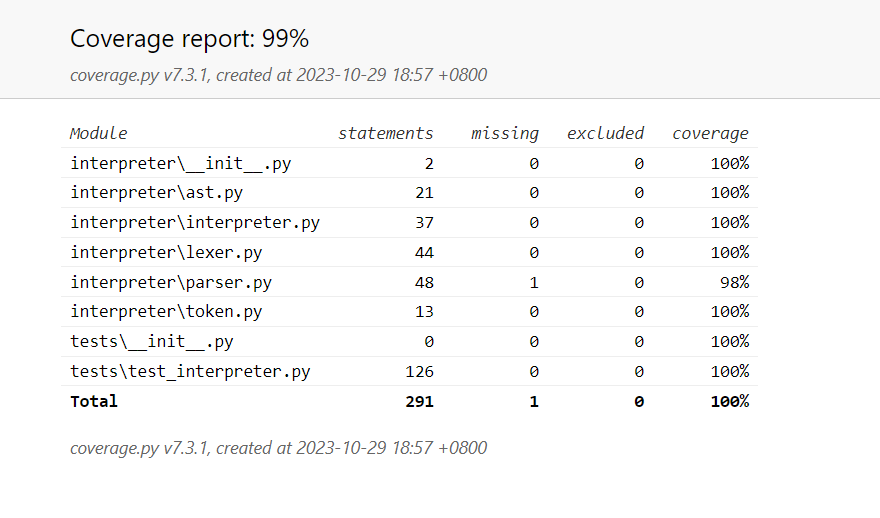
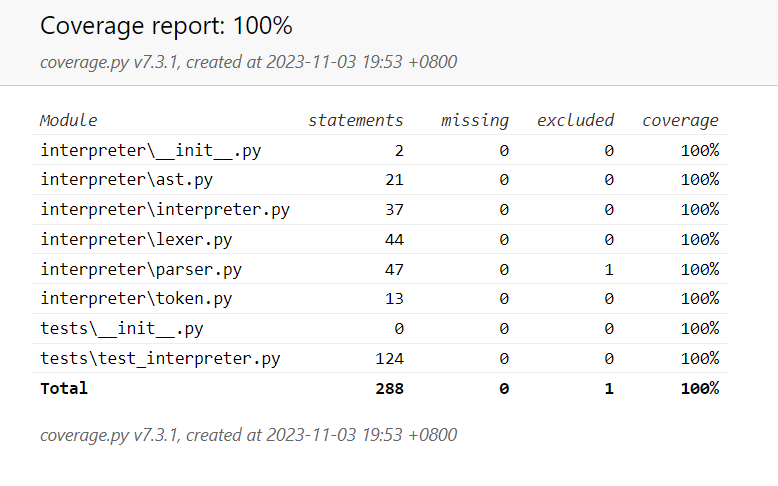
fix tests

diff --git a/pyinterpreter/htmlcov/d_53be9898ecdd4114_parser_py.html b/pyinterpreter/htmlcov/d_53be9898ecdd4114_parser_py.html
@@ -2,7 +2,7 @@
 <html>
 <head>
     <meta http-equiv="Content-Type" content="text/html; charset=utf-8">
-    <title>Coverage for interpreter\parser.py: 98%</title>
+    <title>Coverage for interpreter\parser.py: 100%</title>
     <link rel="icon" sizes="32x32" href="favicon_32.png">
     <link rel="stylesheet" href="style.css" type="text/css">
     <script type="text/javascript" src="coverage_html.js" defer></script>
@@ -12,7 +12,7 @@
     <div class="content">
         <h1>
             <span class="text">Coverage for </span><b>interpreter\parser.py</b>:
-            <span class="pc_cov">98%</span>
+            <span class="pc_cov">100%</span>
         </h1>
         <aside id="help_panel_wrapper">
             <input id="help_panel_state" type="checkbox">
@@ -54,10 +54,10 @@
             </div>
         </aside>
         <h2>
-            <span class="text">48 statements &nbsp;</span>
+            <span class="text">47 statements &nbsp;</span>
             <button type="button" class="run button_toggle_run" value="run" data-shortcut="r" title="Toggle lines run">47<span class="text"> run</span></button>
-            <button type="button" class="mis show_mis button_toggle_mis" value="mis" data-shortcut="m" title="Toggle lines missing">1<span class="text"> missing</span></button>
-            <button type="button" class="exc show_exc button_toggle_exc" value="exc" data-shortcut="x" title="Toggle lines excluded">0<span class="text"> excluded</span></button>
+            <button type="button" class="mis show_mis button_toggle_mis" value="mis" data-shortcut="m" title="Toggle lines missing">0<span class="text"> missing</span></button>
+            <button type="button" class="exc show_exc button_toggle_exc" value="exc" data-shortcut="x" title="Toggle lines excluded">1<span class="text"> excluded</span></button>
         </h2>
         <p class="text">
             <a id="prevFileLink" class="nav" href="d_53be9898ecdd4114_lexer_py.html">&#xab; prev</a> &nbsp; &nbsp;
@@ -65,7 +65,7 @@
             <a id="nextFileLink" class="nav" href="d_53be9898ecdd4114_token_py.html">&#xbb; next</a>
             &nbsp; &nbsp; &nbsp;
             <a class="nav" href="https://coverage.readthedocs.io/en/7.3.1">coverage.py v7.3.1</a>,
-            created at 2023-10-29 18:57 +0800
+            created at 2023-11-03 19:45 +0800
         </p>
         <aside class="hidden">
             <button type="button" class="button_next_chunk" data-shortcut="j"/>
@@ -110,7 +110,7 @@
     <p class="run"><span class="n"><a id="t28" href="#t28">28</a></span><span class="t">            <span class="nam">result</span> <span class="op">=</span> <span class="nam">self</span><span class="op">.</span><span class="nam">expr</span><span class="op">(</span><span class="op">)</span>&nbsp;</span><span class="r"></span></p>
     <p class="run"><span class="n"><a id="t29" href="#t29">29</a></span><span class="t">            <span class="nam">self</span><span class="op">.</span><span class="nam">check_token</span><span class="op">(</span><span class="nam">TokenType</span><span class="op">.</span><span class="nam">RPAREN</span><span class="op">)</span>&nbsp;</span><span class="r"></span></p>
     <p class="run"><span class="n"><a id="t30" href="#t30">30</a></span><span class="t">            <span class="key">return</span> <span class="nam">result</span>&nbsp;</span><span class="r"></span></p>
-    <p class="mis show_mis"><span class="n"><a id="t31" href="#t31">31</a></span><span class="t">        <span class="key">raise</span> <span class="nam">SyntaxError</span><span class="op">(</span><span class="str">"Invalid factor"</span><span class="op">)</span>&nbsp;</span><span class="r"></span></p>
+    <p class="run"><span class="n"><a id="t31" href="#t31">31</a></span><span class="t">        <span class="key">raise</span> <span class="nam">SyntaxError</span><span class="op">(</span><span class="str">"Invalid factor"</span><span class="op">)</span>&nbsp;</span><span class="r"></span></p>
     <p class="pln"><span class="n"><a id="t32" href="#t32">32</a></span><span class="t">&nbsp;</span><span class="r"></span></p>
     <p class="run"><span class="n"><a id="t33" href="#t33">33</a></span><span class="t">    <span class="key">def</span> <span class="nam">term</span><span class="op">(</span><span class="nam">self</span><span class="op">)</span><span class="op">:</span>&nbsp;</span><span class="r"></span></p>
     <p class="run"><span class="n"><a id="t34" href="#t34">34</a></span><span class="t">        <span class="nam">result</span> <span class="op">=</span> <span class="nam">self</span><span class="op">.</span><span class="nam">factor</span><span class="op">(</span><span class="op">)</span>&nbsp;</span><span class="r"></span></p>
@@ -126,7 +126,7 @@
     <p class="run"><span class="n"><a id="t44" href="#t44">44</a></span><span class="t">        <span class="nam">result</span> <span class="op">=</span> <span class="nam">self</span><span class="op">.</span><span class="nam">term</span><span class="op">(</span><span class="op">)</span>&nbsp;</span><span class="r"></span></p>
     <p class="run"><span class="n"><a id="t45" href="#t45">45</a></span><span class="t">        <span class="key">while</span> <span class="nam">self</span><span class="op">.</span><span class="nam">_current_token</span> <span class="key">and</span> <span class="op">(</span><span class="nam">self</span><span class="op">.</span><span class="nam">_current_token</span><span class="op">.</span><span class="nam">type_</span> <span class="op">==</span> <span class="nam">TokenType</span><span class="op">.</span><span class="nam">OPERATOR</span><span class="op">)</span><span class="op">:</span>&nbsp;</span><span class="r"></span></p>
     <p class="run"><span class="n"><a id="t46" href="#t46">46</a></span><span class="t">            <span class="key">if</span> <span class="nam">self</span><span class="op">.</span><span class="nam">_current_token</span><span class="op">.</span><span class="nam">value</span> <span class="key">not</span> <span class="key">in</span> <span class="op">[</span><span class="str">"+"</span><span class="op">,</span> <span class="str">"-"</span><span class="op">]</span><span class="op">:</span>&nbsp;</span><span class="r"></span></p>
-    <p class="run"><span class="n"><a id="t47" href="#t47">47</a></span><span class="t">                <span class="key">break</span>&nbsp;</span><span class="r"></span></p>
+    <p class="exc show_exc"><span class="n"><a id="t47" href="#t47">47</a></span><span class="t">                <span class="key">break</span>  <span class="com"># pragma: no cover</span>&nbsp;</span><span class="r"></span></p>
     <p class="run"><span class="n"><a id="t48" href="#t48">48</a></span><span class="t">            <span class="nam">token</span> <span class="op">=</span> <span class="nam">self</span><span class="op">.</span><span class="nam">_current_token</span>&nbsp;</span><span class="r"></span></p>
     <p class="run"><span class="n"><a id="t49" href="#t49">49</a></span><span class="t">            <span class="nam">self</span><span class="op">.</span><span class="nam">check_token</span><span class="op">(</span><span class="nam">TokenType</span><span class="op">.</span><span class="nam">OPERATOR</span><span class="op">)</span>&nbsp;</span><span class="r"></span></p>
     <p class="run"><span class="n"><a id="t50" href="#t50">50</a></span><span class="t">            <span class="nam">result</span> <span class="op">=</span> <span class="nam">BinOp</span><span class="op">(</span><span class="nam">result</span><span class="op">,</span> <span class="nam">token</span><span class="op">,</span> <span class="nam">self</span><span class="op">.</span><span class="nam">term</span><span class="op">(</span><span class="op">)</span><span class="op">)</span>&nbsp;</span><span class="r"></span></p>
@@ -145,7 +145,7 @@
             <a id="nextFileLink" class="nav" href="d_53be9898ecdd4114_token_py.html">&#xbb; next</a>
             &nbsp; &nbsp; &nbsp;
             <a class="nav" href="https://coverage.readthedocs.io/en/7.3.1">coverage.py v7.3.1</a>,
-            created at 2023-10-29 18:57 +0800
+            created at 2023-11-03 19:45 +0800
         </p>
     </div>
 </footer>

diff --git a/pyinterpreter/htmlcov/d_a44f0ac069e85531_test_interpreter_py.html b/pyinterpreter/htmlcov/d_a44f0ac069e85531_test_interpreter_py.html
@@ -54,8 +54,8 @@
             </div>
         </aside>
         <h2>
-            <span class="text">126 statements &nbsp;</span>
-            <button type="button" class="run button_toggle_run" value="run" data-shortcut="r" title="Toggle lines run">126<span class="text"> run</span></button>
+            <span class="text">124 statements &nbsp;</span>
+            <button type="button" class="run button_toggle_run" value="run" data-shortcut="r" title="Toggle lines run">124<span class="text"> run</span></button>
             <button type="button" class="mis show_mis button_toggle_mis" value="mis" data-shortcut="m" title="Toggle lines missing">0<span class="text"> missing</span></button>
             <button type="button" class="exc show_exc button_toggle_exc" value="exc" data-shortcut="x" title="Toggle lines excluded">0<span class="text"> excluded</span></button>
         </h2>
@@ -65,7 +65,7 @@
             <a id="nextFileLink" class="nav" href="index.html">&#xbb; next</a>
             &nbsp; &nbsp; &nbsp;
             <a class="nav" href="https://coverage.readthedocs.io/en/7.3.1">coverage.py v7.3.1</a>,
-            created at 2023-10-29 18:57 +0800
+            created at 2023-11-03 19:53 +0800
         </p>
         <aside class="hidden">
             <button type="button" class="button_next_chunk" data-shortcut="j"/>
@@ -250,14 +250,11 @@
     <p class="pln"><span class="n"><a id="t168" href="#t168">168</a></span><span class="t">            <span class="nam">result</span><span class="op">)</span> <span class="op">==</span> <span class="str">"BinOp+ (Number (Token(TokenType.NUMBER, 2)), BinOp* (Number (Token(TokenType.NUMBER, 3)), Number (Token(TokenType.NUMBER, 4))))"</span>&nbsp;</span><span class="r"></span></p>
     <p class="pln"><span class="n"><a id="t169" href="#t169">169</a></span><span class="t">&nbsp;</span><span class="r"></span></p>
     <p class="run"><span class="n"><a id="t170" href="#t170">170</a></span><span class="t">    <span class="key">def</span> <span class="nam">test_invalid_operator_factor</span><span class="op">(</span><span class="nam">self</span><span class="op">,</span> <span class="nam">parser</span><span class="op">)</span><span class="op">:</span>&nbsp;</span><span class="r"></span></p>
-    <p class="run"><span class="n"><a id="t171" href="#t171">171</a></span><span class="t">        <span class="nam">code</span> <span class="op">=</span> <span class="str">"2 * + 3 * 4"</span>&nbsp;</span><span class="r"></span></p>
-    <p class="run"><span class="n"><a id="t172" href="#t172">172</a></span><span class="t">        <span class="key">with</span> <span class="nam">pytest</span><span class="op">.</span><span class="nam">raises</span><span class="op">(</span><span class="nam">SyntaxError</span><span class="op">,</span> <span class="nam">match</span><span class="op">=</span><span class="str">"Invalid factor"</span><span class="op">)</span><span class="op">:</span>&nbsp;</span><span class="r"></span></p>
-    <p class="run"><span class="n"><a id="t173" href="#t173">173</a></span><span class="t">            <span class="nam">parser</span><span class="op">.</span><span class="nam">parse</span><span class="op">(</span><span class="nam">code</span><span class="op">)</span>&nbsp;</span><span class="r"></span></p>
-    <p class="pln"><span class="n"><a id="t174" href="#t174">174</a></span><span class="t">&nbsp;</span><span class="r"></span></p>
-    <p class="run"><span class="n"><a id="t175" href="#t175">175</a></span><span class="t">    <span class="key">def</span> <span class="nam">test_missing_closing_parentheses_factor</span><span class="op">(</span><span class="nam">self</span><span class="op">,</span> <span class="nam">parser</span><span class="op">)</span><span class="op">:</span>&nbsp;</span><span class="r"></span></p>
-    <p class="run"><span class="n"><a id="t176" href="#t176">176</a></span><span class="t">        <span class="nam">code</span> <span class="op">=</span> <span class="str">"2 * (3 + 4"</span>&nbsp;</span><span class="r"></span></p>
-    <p class="run"><span class="n"><a id="t177" href="#t177">177</a></span><span class="t">        <span class="key">with</span> <span class="nam">pytest</span><span class="op">.</span><span class="nam">raises</span><span class="op">(</span><span class="nam">SyntaxError</span><span class="op">,</span> <span class="nam">match</span><span class="op">=</span><span class="str">"Invalid factor"</span><span class="op">)</span><span class="op">:</span>&nbsp;</span><span class="r"></span></p>
-    <p class="run"><span class="n"><a id="t178" href="#t178">178</a></span><span class="t">            <span class="nam">parser</span><span class="op">.</span><span class="nam">parse</span><span class="op">(</span><span class="nam">code</span><span class="op">)</span>&nbsp;</span><span class="r"></span></p>
+    <p class="run"><span class="n"><a id="t171" href="#t171">171</a></span><span class="t">        <span class="nam">token</span> <span class="op">=</span> <span class="nam">Token</span><span class="op">(</span><span class="nam">TokenType</span><span class="op">.</span><span class="nam">OPERATOR</span><span class="op">,</span> <span class="str">"abc"</span><span class="op">)</span>&nbsp;</span><span class="r"></span></p>
+    <p class="run"><span class="n"><a id="t172" href="#t172">172</a></span><span class="t">        <span class="nam">parser</span> <span class="op">=</span> <span class="nam">Parser</span><span class="op">(</span><span class="op">)</span>&nbsp;</span><span class="r"></span></p>
+    <p class="run"><span class="n"><a id="t173" href="#t173">173</a></span><span class="t">        <span class="nam">parser</span><span class="op">.</span><span class="nam">_current_token</span> <span class="op">=</span> <span class="nam">token</span>&nbsp;</span><span class="r"></span></p>
+    <p class="run"><span class="n"><a id="t174" href="#t174">174</a></span><span class="t">        <span class="key">with</span> <span class="nam">pytest</span><span class="op">.</span><span class="nam">raises</span><span class="op">(</span><span class="nam">SyntaxError</span><span class="op">)</span><span class="op">:</span>&nbsp;</span><span class="r"></span></p>
+    <p class="run"><span class="n"><a id="t175" href="#t175">175</a></span><span class="t">            <span class="nam">parser</span><span class="op">.</span><span class="nam">factor</span><span class="op">(</span><span class="op">)</span>&nbsp;</span><span class="r"></span></p>
 </main>
 <footer>
     <div class="content">
@@ -267,7 +264,7 @@
             <a id="nextFileLink" class="nav" href="index.html">&#xbb; next</a>
             &nbsp; &nbsp; &nbsp;
             <a class="nav" href="https://coverage.readthedocs.io/en/7.3.1">coverage.py v7.3.1</a>,
-            created at 2023-10-29 18:57 +0800
+            created at 2023-11-03 19:53 +0800
         </p>
     </div>
 </footer>

diff --git a/pyinterpreter/htmlcov/index.html b/pyinterpreter/htmlcov/index.html
@@ -11,7 +11,7 @@
 <header>
     <div class="content">
         <h1>Coverage report:
-            <span class="pc_cov">99%</span>
+            <span class="pc_cov">100%</span>
         </h1>
         <aside id="help_panel_wrapper">
             <input id="help_panel_state" type="checkbox">
@@ -45,7 +45,7 @@
         </form>
         <p class="text">
             <a class="nav" href="https://coverage.readthedocs.io/en/7.3.1">coverage.py v7.3.1</a>,
-            created at 2023-10-29 18:57 +0800
+            created at 2023-11-03 19:53 +0800
         </p>
     </div>
 </header>
@@ -91,10 +91,10 @@
             </tr>
             <tr class="file">
                 <td class="name left"><a href="d_53be9898ecdd4114_parser_py.html">interpreter\parser.py</a></td>
-                <td>48</td>
-                <td>1</td>
+                <td>47</td>
                 <td>0</td>
-                <td class="right" data-ratio="47 48">98%</td>
+                <td>1</td>
+                <td class="right" data-ratio="47 47">100%</td>
             </tr>
             <tr class="file">
                 <td class="name left"><a href="d_53be9898ecdd4114_token_py.html">interpreter\token.py</a></td>
@@ -112,19 +112,19 @@
             </tr>
             <tr class="file">
                 <td class="name left"><a href="d_a44f0ac069e85531_test_interpreter_py.html">tests\test_interpreter.py</a></td>
-                <td>126</td>
+                <td>124</td>
                 <td>0</td>
                 <td>0</td>
-                <td class="right" data-ratio="126 126">100%</td>
+                <td class="right" data-ratio="124 124">100%</td>
             </tr>
         </tbody>
         <tfoot>
             <tr class="total">
                 <td class="name left">Total</td>
-                <td>291</td>
-                <td>1</td>
+                <td>288</td>
                 <td>0</td>
-                <td class="right" data-ratio="290 291">99%</td>
+                <td>1</td>
+                <td class="right" data-ratio="288 288">100%</td>
             </tr>
         </tfoot>
     </table>
@@ -136,7 +136,7 @@
     <div class="content">
         <p>
             <a class="nav" href="https://coverage.readthedocs.io/en/7.3.1">coverage.py v7.3.1</a>,
-            created at 2023-10-29 18:57 +0800
+            created at 2023-11-03 19:53 +0800
         </p>
     </div>
     <aside class="hidden">

diff --git a/pyinterpreter/tests/test_interpreter.py b/pyinterpreter/tests/test_interpreter.py
@@ -168,11 +168,8 @@ class TestParser:
             result) == "BinOp+ (Number (Token(TokenType.NUMBER, 2)), BinOp* (Number (Token(TokenType.NUMBER, 3)), Number (Token(TokenType.NUMBER, 4))))"
 
     def test_invalid_operator_factor(self, parser):
-        code = "2 * + 3 * 4"
-        with pytest.raises(SyntaxError, match="Invalid factor"):
-            parser.parse(code)
-
-    def test_missing_closing_parentheses_factor(self, parser):
-        code = "2 * (3 + 4"
-        with pytest.raises(SyntaxError, match="Invalid factor"):
-            parser.parse(code)
+        token = Token(TokenType.OPERATOR, "abc")
+        parser = Parser()
+        parser._current_token = token
+        with pytest.raises(SyntaxError):
+            parser.factor()

diff --git a/pyinterpreter/interpreter/parser.py b/pyinterpreter/interpreter/parser.py
@@ -44,7 +44,7 @@ class Parser:
         result = self.term()
         while self._current_token and (self._current_token.type_ == TokenType.OPERATOR):
             if self._current_token.value not in ["+", "-"]:
-                break
+                break  # pragma: no cover
             token = self._current_token
             self.check_token(TokenType.OPERATOR)
             result = BinOp(result, token, self.term())
